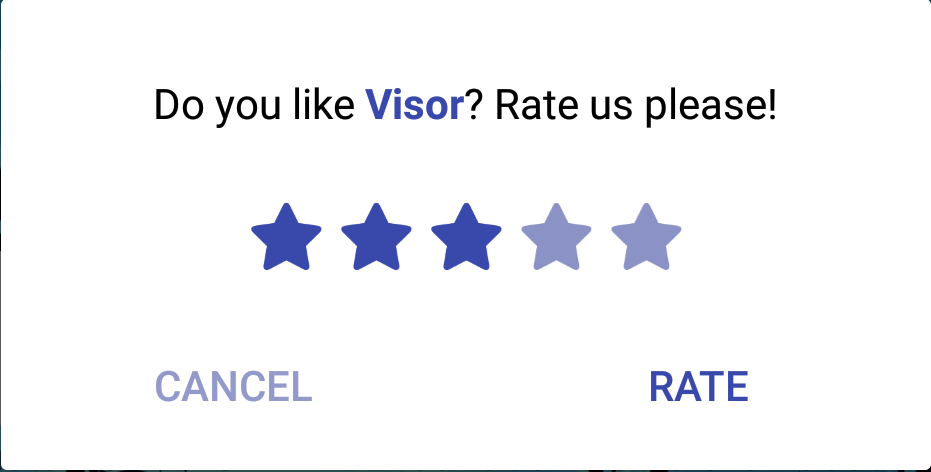
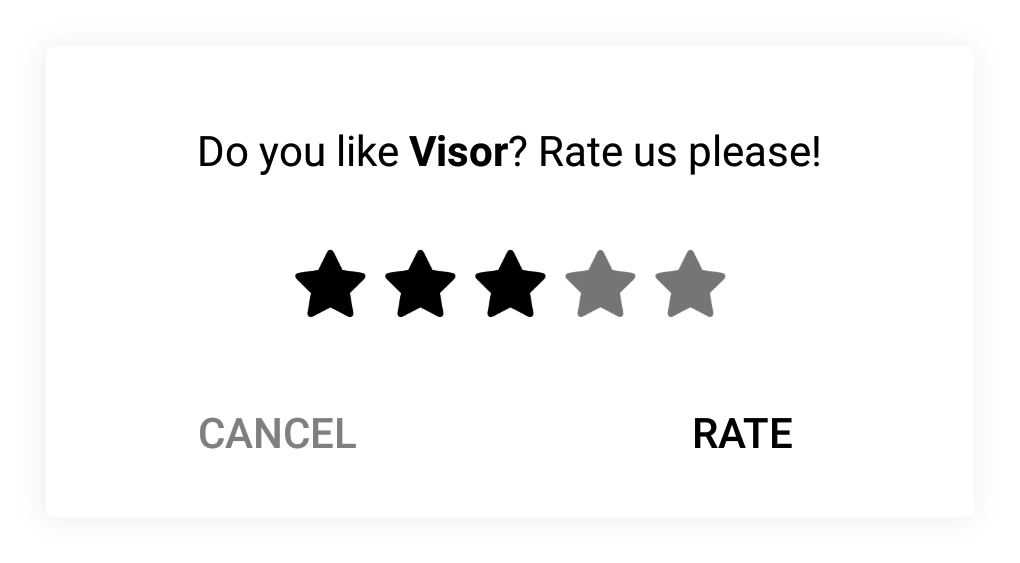
graphics

diff --git a/app/src/main/java/ratedialogexample/ratedialogexample/MainActivity.java b/app/src/main/java/ratedialogexample/ratedialogexample/MainActivity.java
@@ -1,7 +1,8 @@
 package ratedialogexample.ratedialogexample;
 
-import android.support.v7.app.AppCompatActivity;
+import android.graphics.Color;
 import android.os.Bundle;
+import android.support.v7.app.AppCompatActivity;
 
 import rateusdialoghelper.RateDialogHelper;
 
@@ -12,10 +13,22 @@ public class MainActivity extends AppCompatActivity {
         super.onCreate(savedInstanceState);
         setContentView(R.layout.activity_main);
 
-        RateDialogHelper dailog = new RateDialogHelper.Builder()
-                .setShowEveryTime(true)
-                .build();
+        int colorInactive = Color.parseColor("#c59d23");
+        int colorActive = Color.parseColor("#f8c017");
 
-        dailog.showRateDialog(this);
+        RateDialogHelper.Builder rateDialogHelperbuilder = new RateDialogHelper.Builder()
+                .setRatingColorActive(colorActive)
+                .setRatingColorInactive(colorInactive)
+                .setTitleAppNameColor(colorActive)
+                .setCancelColor(colorInactive)
+                .setRateColor(colorActive)
+                .setFeedbackEmail("someamil@gmail.com");
+
+        if (BuildConfig.DEBUG){
+            //for debug show rate dlg all the time
+            rateDialogHelperbuilder.setShowEveryTime(true);
+        }
+
+        rateDialogHelperbuilder.build().showRateDialog(this);
     }
 }
